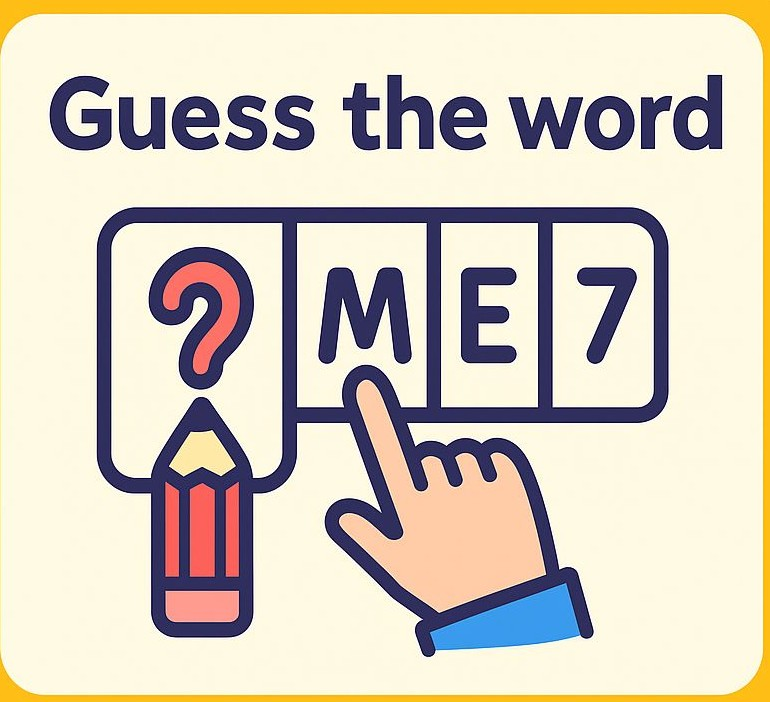
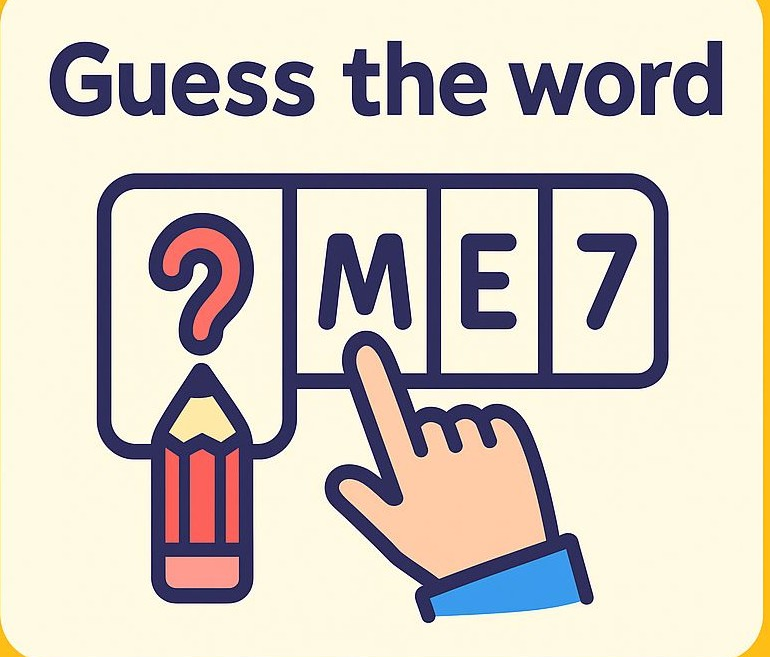
UPDATE: adding the correct imgs, put the imgs in the selectLevel and add cursurpoint

diff --git a/src/ui/components/GameTypeButton.jsx b/src/ui/components/GameTypeButton.jsx
@@ -7,34 +7,31 @@ import guessIcon       from "../../../public/translation.png";
 
 const icons = {
   "memory game": memoryIcon,
-  translation: translationIcon,
-  "guess the word": guessIcon,
+  "translation": guessIcon,
+  "guess the word": translationIcon,
 };
 
 
 export default function GameTypeButton({ gameType, isSelected, onClick }) {
-  const imgSrc = icons[gameType.name?.toLowerCase()] || memoryIcon;
+  console.log('👉 gameType.name:', `"${gameType.name}"`);
+  const nameKey = gameType.name?.toLowerCase().trim();
+  const imgSrc = icons[nameKey];
   return (
     <button
-      onClick={() => onClick(gameType._id)}
-     className={`rounded-xl border-4 overflow-hidden
-        transition transform
-        ${isSelected
-          ? "border-blue-700 ring-4 ring-blue-300 scale-105"
-          : "border-gray-300 hover:scale-105"}
-      `}
-       style={{
-        width: "80px",
-        height: "80px",
-        padding: 0,
-      }}
-    >
-       <img
-        src={imgSrc}
-        alt={gameType.name}
-       className="w-full h-full object-contain"
-      />
-    </button>
+  onClick={() => onClick(gameType._id)}
+  className={`w-20 h-20 p-0 rounded-xl border-4 overflow-hidden transition transform
+    ${isSelected
+      ? "border-yellow-500 shadow-md scale-105"
+      : "border-gray-300 hover:scale-105"}
+  `}
+>
+  <img
+    src={imgSrc}
+    alt={gameType.name}
+    className="w-full h-full object-center"
+    draggable={false}
+  />
+</button>
   );
 }
 

diff --git a/src/ui/pages/CreateRoom/CreateRoom.jsx b/src/ui/pages/CreateRoom/CreateRoom.jsx
@@ -12,6 +12,7 @@ import GameTypeSelector from "../../components/GameTypeSelector";
 import { toast } from "react-toastify";
 import "react-toastify/dist/ReactToastify.css";
 import SecondaryButton from "../../components/SecondaryButton";
+import UserInfoHeader from "../../components/UserInfoHeader";
 
 const TEMP_USER = {
   // this user ID has to be real ID from db.
@@ -65,10 +66,10 @@ const CreateRoom = () => {
   return (
     <div className="bg-[url('/homePage.png')] bg-cover min-h-screen flex items-center justify-center px-4">
       <SecondaryButton text={"EXIT"} onclick={handleExitCreateRoom}/>
+      <UserInfoHeader />
       <BlueBox
         size="large"
-        className="text-center w-[50rem] min-h-[40rem] p-4 overflow-y-auto max-h-[95vh]"
-      >
+        className="text-center w-[50rem] min-h-[40rem] p-4 overflow-y-auto max-h-[95vh]" >
         <Header
           className="text-4xl font-extrabold mb-6 uppercase"
           text={`CREATE YOUR GAME ROOM`}
@@ -79,7 +80,7 @@ const CreateRoom = () => {
         <PrimaryButton
           text="LET'S GO"
           onClick={handleCreateRoom}
-          className="bg-green-400 cursor-pointer "
+          className="bg-green-400 cursor-pointer sm:w-auto px-4 py-2 "
         />
       </BlueBox>
     </div>
